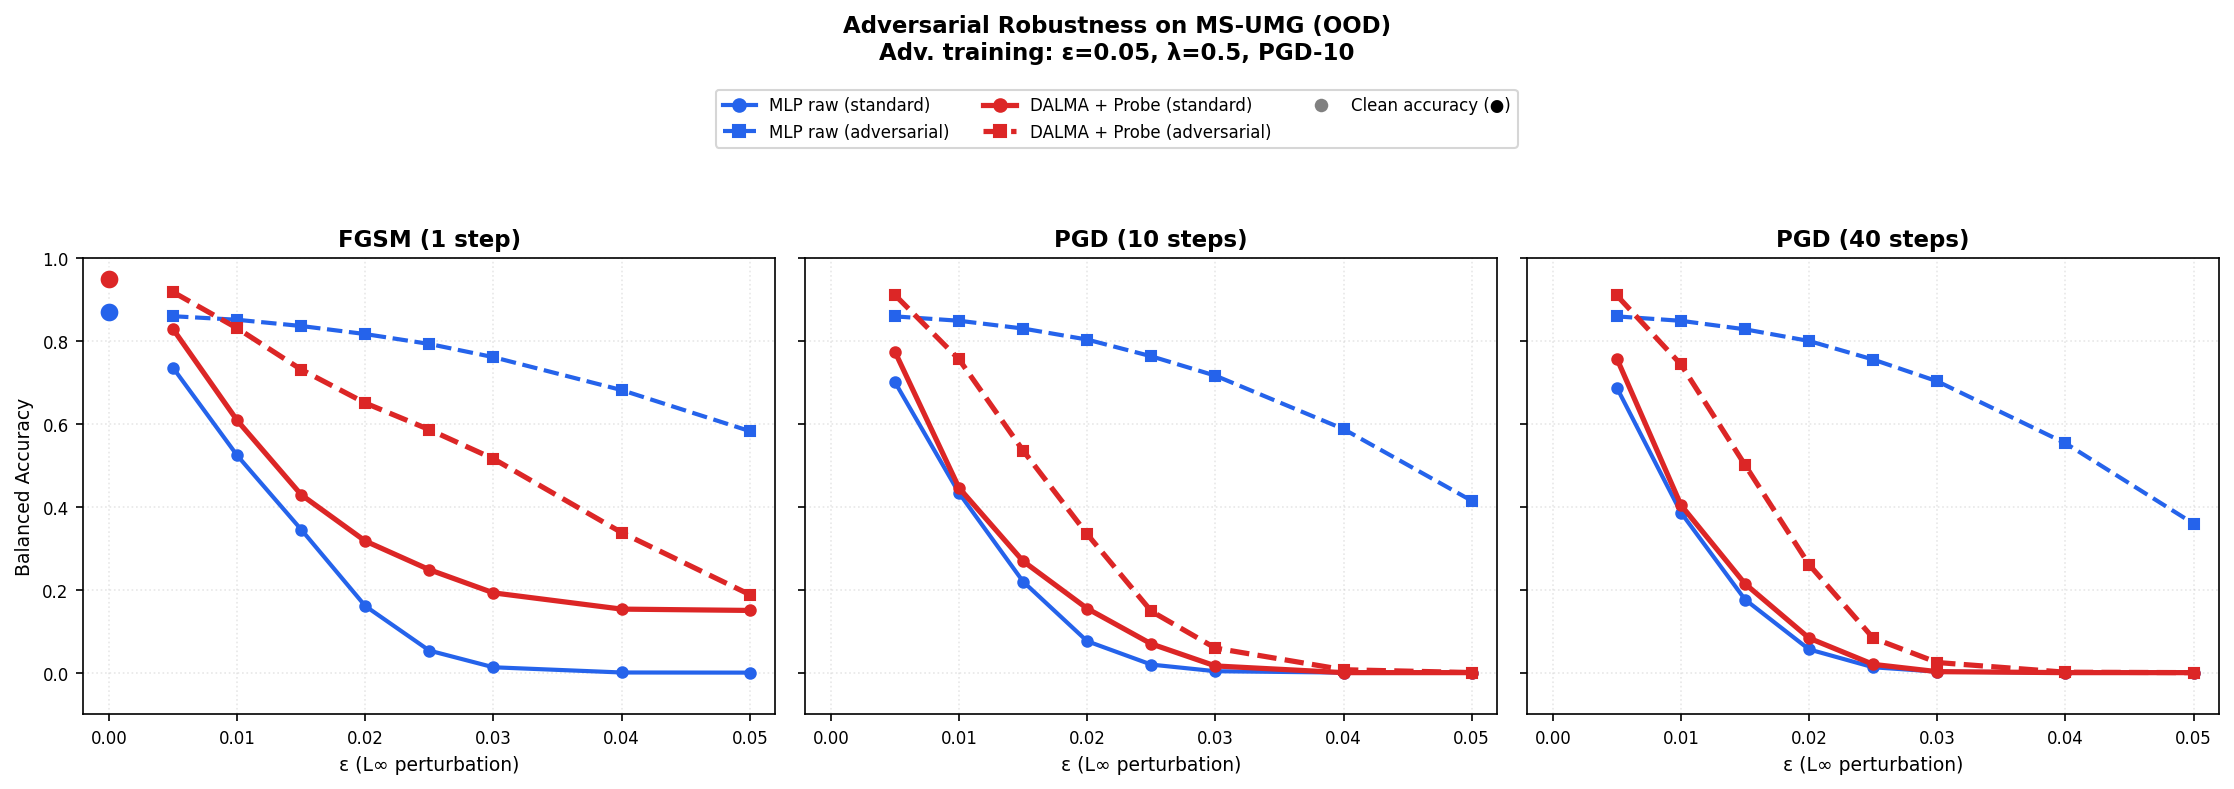
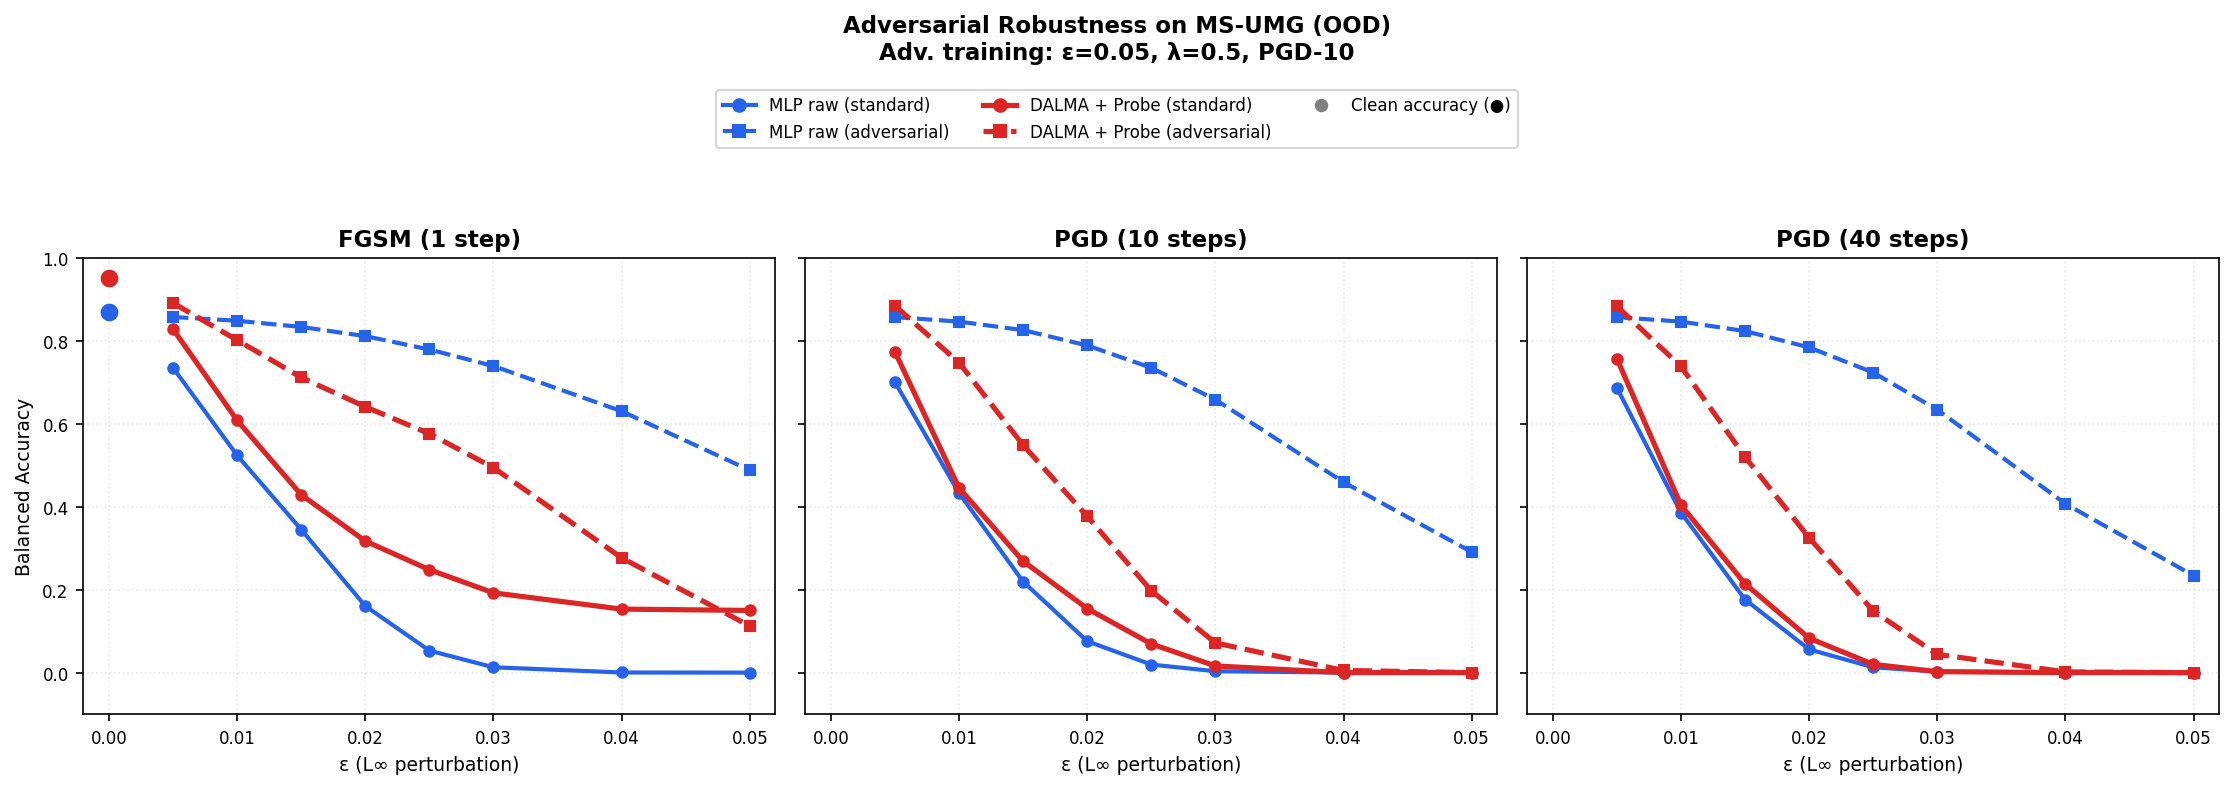
update results

diff --git a/experiments/adversarial_attacks/visualization/visualize_robustness_comparison.py b/experiments/adversarial_attacks/visualization/visualize_robustness_comparison.py
@@ -32,7 +32,7 @@ MAX_EPS = 0.05
 # DATA LOADING
 # ============================================================
 if not PLOT_FGSM:
-    df_adv = pd.read_csv("/export/usuarios01/agnavarr/MALDIAlign/experiments/adversarial_attacks/results/20260921_063738/adversarial_robustness_adv.csv")
+    df_adv = pd.read_csv("/export/usuarios01/agnavarr/MALDIAlign/experiments/adversarial_attacks/results/20260921_092740/adversarial_robustness_adv_pgd.csv")
 else:
     df_adv = pd.read_csv("/export/usuarios01/agnavarr/MALDIAlign/experiments/adversarial_attacks/results/20260718_103659/adversarial_robustness_adv.csv")
 
